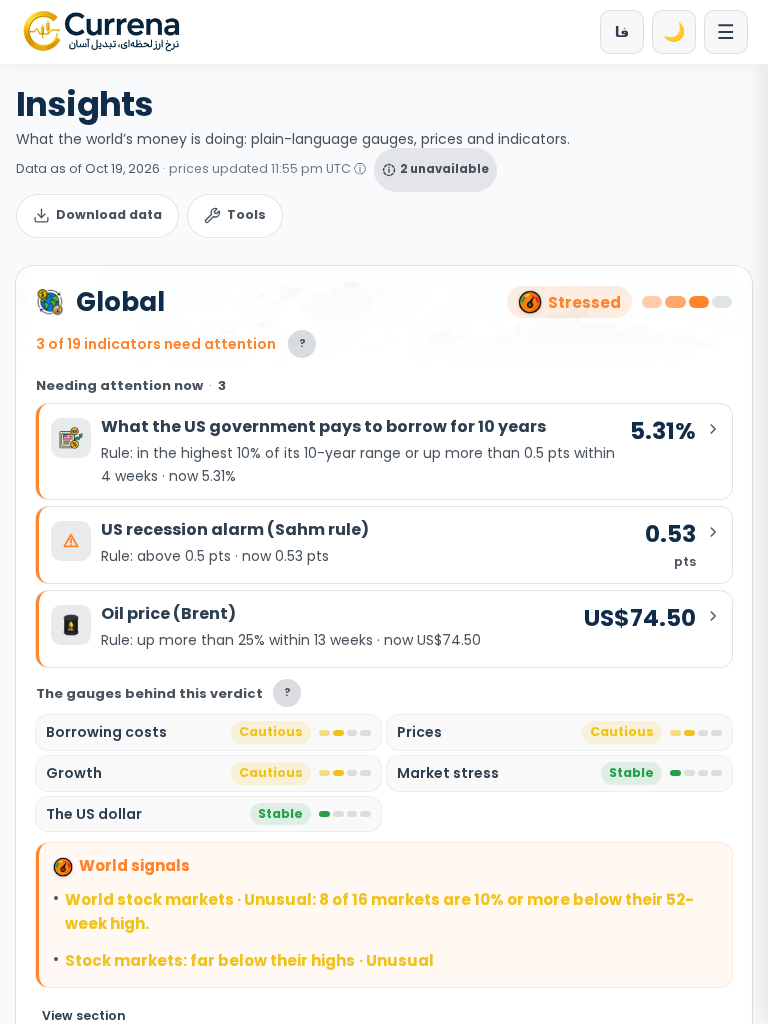
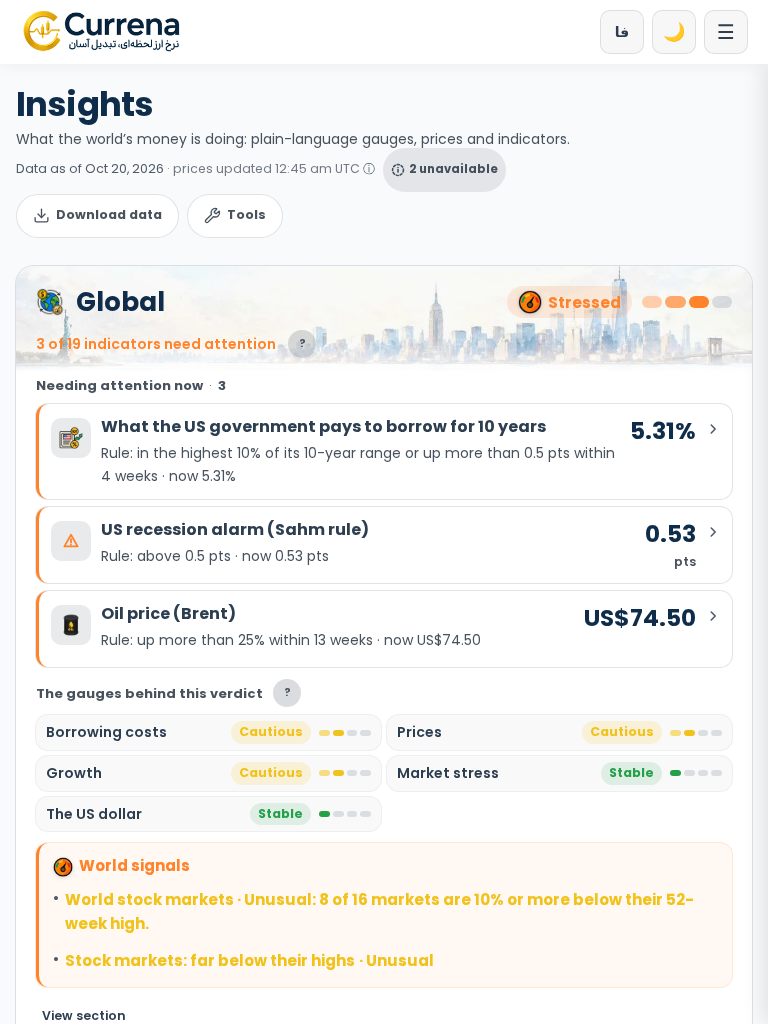
owner round 2026-10-20d: the World card gets its picture — the owner's New York harbour photo (new-york-bg-fade.jpg → new-york-bg-faded.webp, 18.7KB, Sydney-matched contrast) joins Sydney's art band over the same 26% veil family, framed at 72% with a horizon-safe 30%/34% bottom fade so the skyline e

diff --git a/apps/web/src/index.css b/apps/web/src/index.css
@@ -1597,16 +1597,31 @@ html:not(:lang(fa)) .type-kicker {
   background-position: center, center, 72% center;
 }
 .ei-hero-art--global {
+  /* OWNER DIRECTIVE (2026-10-20d): the World card joins Australia in carrying
+   * a real photograph — the owner's new-york-bg-fade.jpg (converted to webp,
+   * the same 1400×248 band format as Sydney's) replaces the map texture, so
+   * both region headers now open on a picture. The "map must stay even
+   * quieter than Sydney" sub-rule (spec §7 Global) retires with the map; the
+   * photo rides the SAME flat tint + veil family as Sydney (26% tint) so the
+   * two bands speak one language. Two World-specific tunings, because the
+   * owner's photo composes differently from Sydney's: (1) the framing window
+   * sits at 72% — the same offset as Sydney's — so the frame lands on the
+   * Empire State / One WTC cluster (Statue of Liberty left, the bridge far
+   * right) rather than on empty haze; (2) the bottom fade completes at 30%
+   * of the band instead of 46%, because this skyline rides the horizon at
+   * the photo's MIDDLE third (Sydney's sails sit mid-upper) — the fade must
+   * dip below the horizon or it erases the skyline the owner chose the
+   * photo for; only the water-reflection sliver dissolves into the card.
+   * global-map-faded.webp stays in the tree, unreferenced, for the record. */
   background-image:
-    linear-gradient(to top, var(--color-surface) 0%, color-mix(in srgb, var(--color-surface) 62%, transparent) 46%, transparent 100%),
-    linear-gradient(color-mix(in srgb, var(--color-surface) 30%, transparent), color-mix(in srgb, var(--color-surface) 30%, transparent)),
-    url('/assets/artwork/global-map-faded.webp');
+    linear-gradient(to top, var(--color-surface) 0%, color-mix(in srgb, var(--color-surface) 62%, transparent) 10%, transparent 30%),
+    linear-gradient(color-mix(in srgb, var(--color-surface) 26%, transparent), color-mix(in srgb, var(--color-surface) 26%, transparent)),
+    url('/assets/artwork/new-york-bg-faded.webp');
   background-size: 100% 100%, 100% 100%, cover;
-  background-position: center, center, center;
-  opacity: 0.85; /* the map must stay even quieter than Sydney (spec §7 Global) */
+  background-position: center, center, 72% center;
 }
 .dark .ei-hero-art--au { opacity: 0.5; }
-.dark .ei-hero-art--global { opacity: 0.35; }
+.dark .ei-hero-art--global { opacity: 0.5; }
 @media (max-width: 767.98px) {
   /* Narrow cards (spec §7): the art steps back so the stacked title/pill
    * never competes with it — the veil gets heavier, not the band taller. */
@@ -1616,7 +1631,15 @@ html:not(:lang(fa)) .type-kicker {
       linear-gradient(color-mix(in srgb, var(--color-surface) 46%, transparent), color-mix(in srgb, var(--color-surface) 46%, transparent)),
       url('/assets/artwork/sydney-harbour-faded.webp');
   }
-  .ei-hero-art--global { opacity: 0.55; }
+  .ei-hero-art--global {
+    /* Mobile: the heavier 46% tint stays (the stacked title/pill needs it);
+     * the fade follows the desktop retune — completes at 34% so the
+     * horizon skyline stays out from under the seam fade. */
+    background-image:
+      linear-gradient(to top, var(--color-surface) 0%, color-mix(in srgb, var(--color-surface) 62%, transparent) 12%, transparent 34%),
+      linear-gradient(color-mix(in srgb, var(--color-surface) 46%, transparent), color-mix(in srgb, var(--color-surface) 46%, transparent)),
+      url('/assets/artwork/new-york-bg-faded.webp');
+  }
 }
 
 /* The editorial severity pill (economic-indicators-editorial-spec.md §4

diff --git a/apps/web/src/components/insights/VerdictMeter.tsx b/apps/web/src/components/insights/VerdictMeter.tsx
@@ -93,7 +93,8 @@
  *
  * Editorial handoff (2026-10-19, docs/insights/
  * economic-indicators-editorial-spec.md): the two overview cards open
- * with the quiet ART BAND (Sydney Harbour / faint world map, §7) behind
+ * with the quiet ART BAND (Sydney Harbour / New York skyline — the
+ * owner's 2026-10-20d photo directive, §7) behind
  * the header + count line; the region title speaks the navy print ink
  * (--ei-navy); the verdict word + state artwork ride in ONE compact
  * tinted pill (.ei-state-pill, §4) with the meter still beside it; the
@@ -326,13 +327,13 @@ export function VerdictBlock({
     >
       {/* Editorial handoff (2026-10-19, economic-indicators-editorial-spec.md
        * §7): the card opens with the quiet ART BAND — Sydney Harbour on the
-       * Australia card, an even fainter world-map texture on the Global
-       * card (index.css .ei-hero-art). The band carries the header + the
-       * count line, and the artwork always sits BEHIND a surface-colored
-       * veil + bottom fade (dark mode tones it further down), so the navy
-       * title, the state pill and the count keep their contrast. The card
-       * body below keeps the card's own padding; overflow-hidden gives the
-       * band the card's rounded corners. */}
+       * Australia card, the owner's New York skyline photo on the Global
+       * card (2026-10-20d directive; index.css .ei-hero-art). The band carries
+       * the header + the count line, and the artwork always sits BEHIND a
+       * surface-colored veil + bottom fade (dark mode tones it further
+       * down), so the navy title, the state pill and the count keep their
+       * contrast. The card body below keeps the card's own padding;
+       * overflow-hidden gives the band the card's rounded corners. */}
       <div className="relative flex flex-col gap-3 p-4 pb-3.5 md:p-5 md:pb-3.5 lg:p-6 lg:pb-3.5">
         <span
           aria-hidden="true"

diff --git a/CHANGELOG.md b/CHANGELOG.md
@@ -5,6 +5,60 @@ The format is based on [Keep a Changelog](https://keepachangelog.com/en/1.1.0/);
 as a private monorepo, releases are tracked by date and Workers version rather
 than a semver tag.
 
+## [2026-10-20d] — the World card gets its picture: the owner's New York photo joins Sydney's band (owner round)
+
+The owner's directive: "Use this picture, turn it to webP, and use it for
+the World container. so both containers aus and world now have picture."
+— the uploaded `new-york-bg-fade.jpg` (1400×248, the same band format as
+Sydney's `sydney-harbour-faded.webp`). The World (Global) region card's
+header band swaps its faint world-map texture for the New York harbour
+photo, so both region headers now open on a photograph. No data, scoring,
+copy or other page changes — a presentation-only round on the restored
+editorial hero.
+
+### The asset
+
+- `apps/web/public/assets/artwork/new-york-bg-faded.webp` (18.7 KB) —
+  the owner's JPEG converted to webp (quality 82, method 6) with one
+  recorded normalization: contrast ×1.4 + brightness ×0.97. The upload is
+  a high-key, low-contrast fade (luma std 17.9 vs Sydney's 27.0, no
+  darks below 123) that read as a blank wash through the band veil; the
+  lift brings it to Sydney's measured band weight (mean 231.1 vs 231.4,
+  std 24.0 vs 27.0) with zero pixel clipping, while keeping the owner's
+  airy, watercolour-like fade as the aesthetic.
+- `global-map-faded.webp` stays in the tree, unreferenced, for the record.
+
+### The wiring (index.css `.ei-hero-art--global`)
+
+- The photo rides the SAME veil family as Sydney's band (the 26% flat
+  surface tint; dark mode 0.5) — the retired "map must stay even quieter
+  than Sydney" sub-rule was about the map texture, not about photos.
+- Two photo-specific tunings, because the owner's photo composes
+  differently from Sydney's: (1) the framing window sits at `72%` — the
+  same offset as Sydney's — so the frame lands on the Empire State /
+  One WTC cluster (Statue of Liberty left, Brooklyn Bridge far right)
+  instead of empty haze; (2) the bottom fade completes at 30% of the band
+  (desktop; 34% mobile) instead of 46%, because this skyline rides the
+  horizon at the photo's middle third — the old fade dipped the
+  skyline under a 73-100% surface wash (the photo's subject was
+  mathematically erased; row-level render measurements confirmed 0.0
+  detail where the skyline should be). Only the water-reflection sliver
+  dissolves into the card seam now.
+
+### Gates
+
+- web 698/698 · typecheck 6/6 · lint 0 errors / 15 accepted advisories ·
+  copy:audit clean (no strings changed) · visual 19/19 (U-01..U-14 on the
+  new band) · budgets held with NO JS change (entry 295.28/88.81,
+  Insights 697.38/167.88 vs 296/89.5 and 700/169) — CSS + public asset
+  only; the webp rides the PWA precache.
+- VLM visual pass on the regenerated captures: the two bands read
+  "reasonably balanced" (Sydney 8/10, New York 6/10 — the remaining
+  softness is the owner's own fade), the NYC skyline unmistakably
+  visible (Statue of Liberty · Lower Manhattan · Brooklyn Bridge), all
+  title/pill/count text readable EN + fa, mobile + RTL clean, zero
+  overflow.
+
 ## [2026-10-20 (owner UI restore)] — the previous UI returns over the v3 data layer ("I liked the previous UI more… in the PREVIOUS UI")
 
 The owner's directive, on seeing the merged v3 surface live: "I liked the

diff --git a/docs/insights/UI_REPORT.md b/docs/insights/UI_REPORT.md
@@ -18,6 +18,20 @@
 > harness stays 19/19 with U-01/U-11 re-pinned to the restored surface.
 > Full record: CHANGELOG §2026-10-20 (owner UI restore).
 
+> **OWNER DIRECTIVE ADDENDUM (2026-10-20d, follow-up round):** "Use
+> this picture, turn it to webP, and use it for the World container. so
+> both containers aus and world now have picture." The §7 art-band's
+> Global variant now carries the owner's New York harbour photo
+> (`new-york-bg-faded.webp`, the same 1400×248 band format as Sydney's)
+> in place of the world-map texture; the veil family (26% flat tint,
+> dark 0.5) matches Sydney's, with two photo-specific tunings recorded
+> in index.css (the 72% framing window; the bottom fade completing at
+> 30%/34% so the horizon skyline escapes the seam wash). Visual harness
+> stays 19/19 on the new band; VLM passes the two bands as balanced
+> with all text readable EN/fa, desktop/mobile. No U-item or data
+> surface affected. Full record: CHANGELOG §2026-10-20d.
+
+
 Report date: 20 October 2026 (UTC). Branch: `insights-rebuild`. Scope: the
 Insights page only (`#/insights`) — no other page, brand colour, font or
 logo changed (verified: the diff touches only Insights components, the

diff --git a/docs/insights/OWNER_SETUP.md b/docs/insights/OWNER_SETUP.md
@@ -193,3 +193,17 @@ owner export, sparse-honesty balance). Full record: CHANGELOG
 §2026-10-20 (owner UI restore) + UI_REPORT's addendum. The four §12
 hand items are unchanged and still yours (owner token, token rotation,
 fa copy review, the chg1y backfill check).
+
+## 14. UPDATE — the 2026-10-20d owner round: the World card's photo band
+
+The owner's follow-up directive (2026-10-20d): "Use this picture, turn it
+to webP, and use it for the World container. so both containers aus and
+world now have picture." — shipped on top of §13's tree: the World
+(Global) region card's header band now carries the owner's New York
+harbour photo (converted to webp, Sydney-matched veil, framing at 72%
+and a horizon-safe bottom fade — the two tunings recorded in
+`apps/web/src/index.css`). Both region headers now open on a photograph.
+No data, scoring, export or copy change. Full record: CHANGELOG
+§2026-10-20d + UI_REPORT's 2026-10-20d addendum. The §12 hand items are
+unchanged and still yours (owner token, token rotation, fa copy review);
+the chg1y backfill check is resolved (§13).
